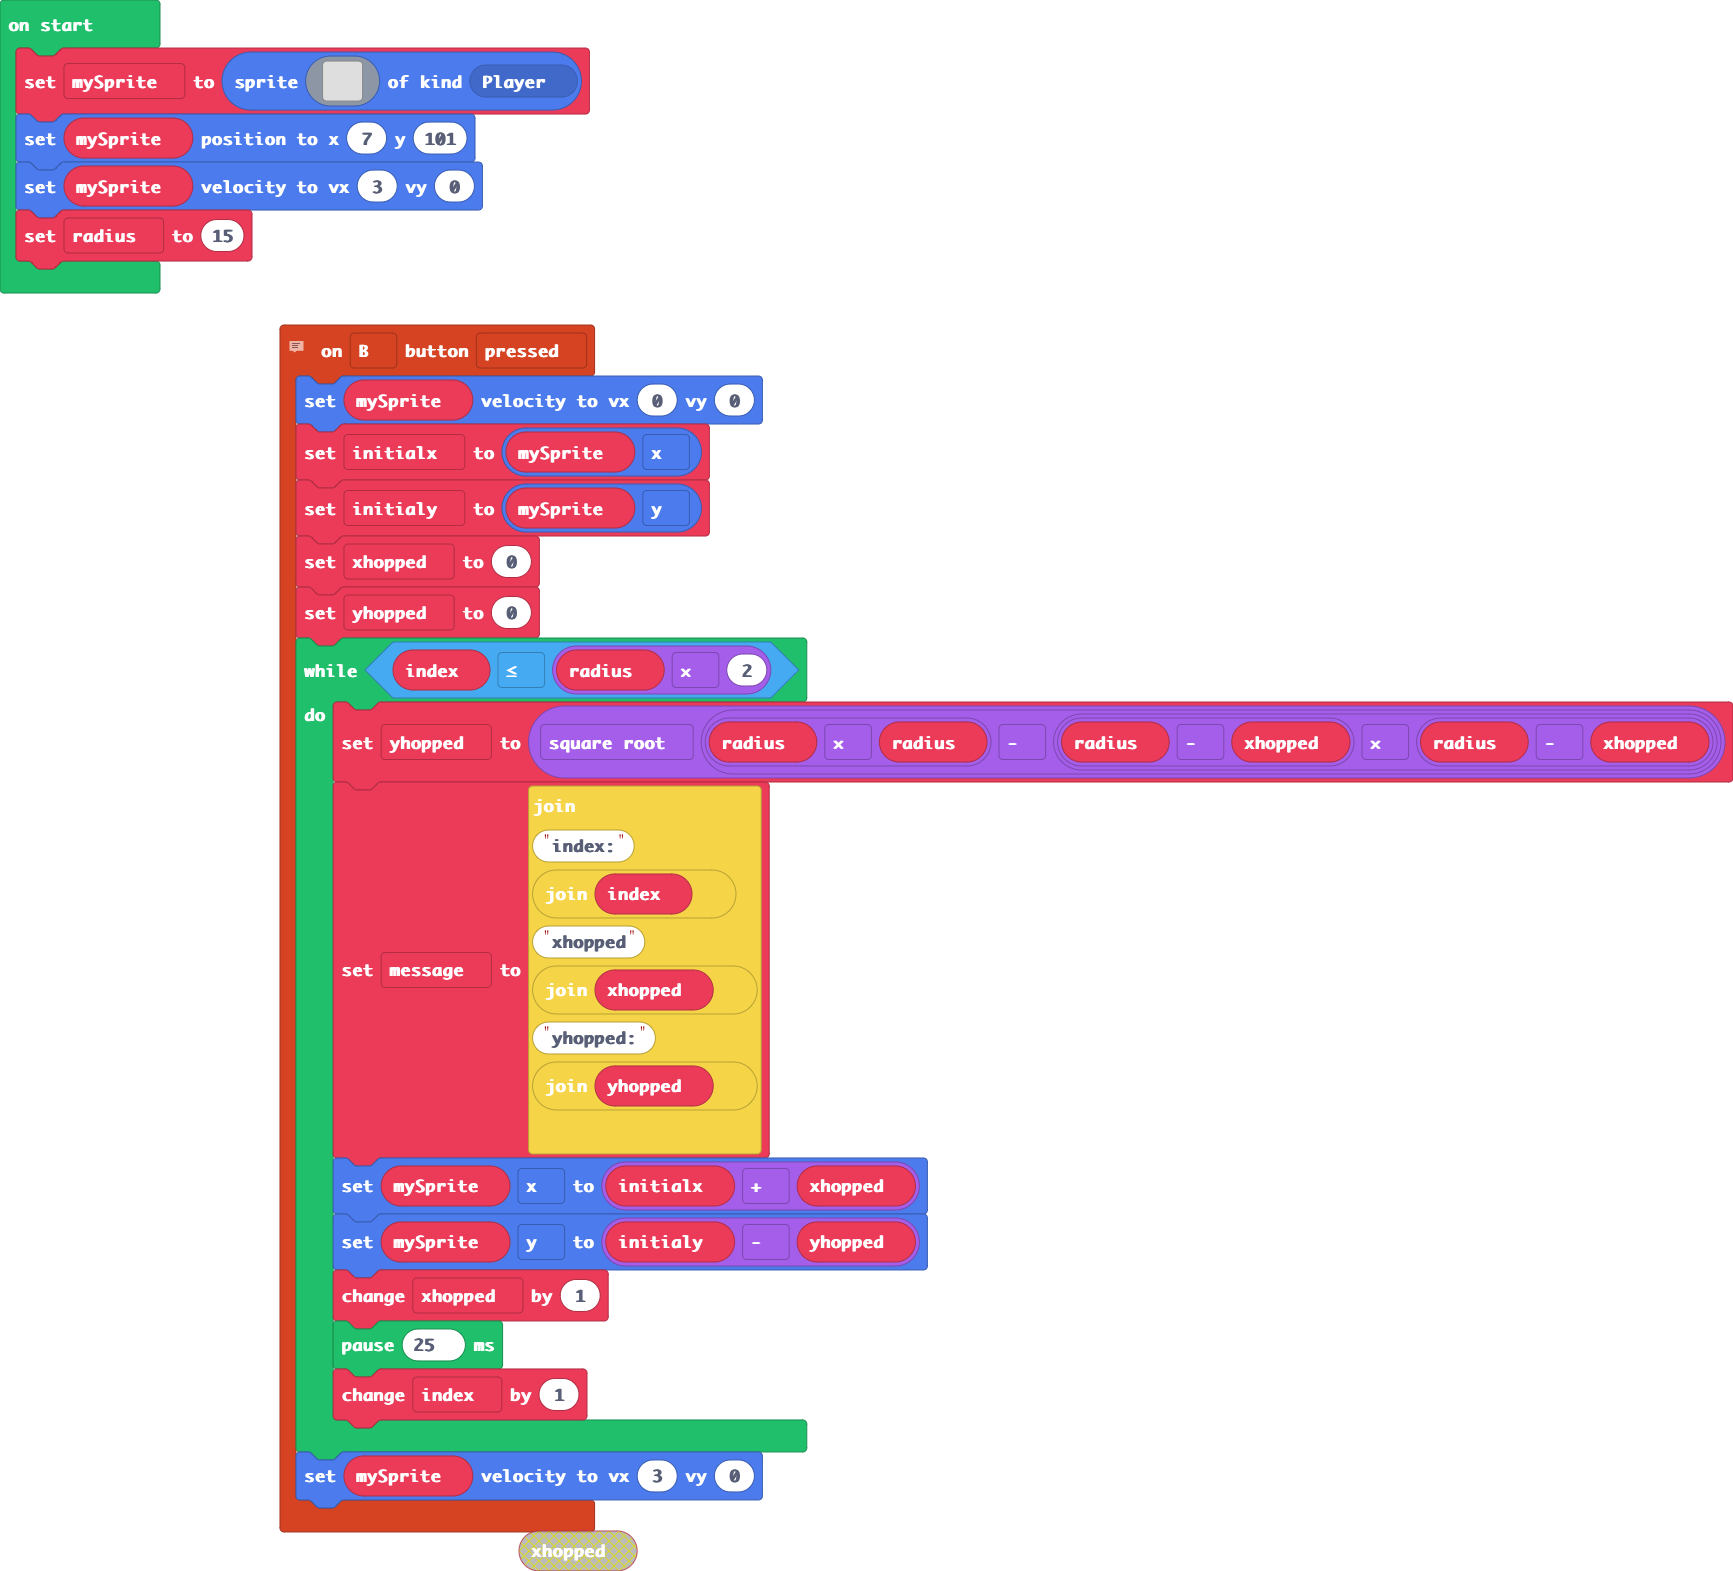
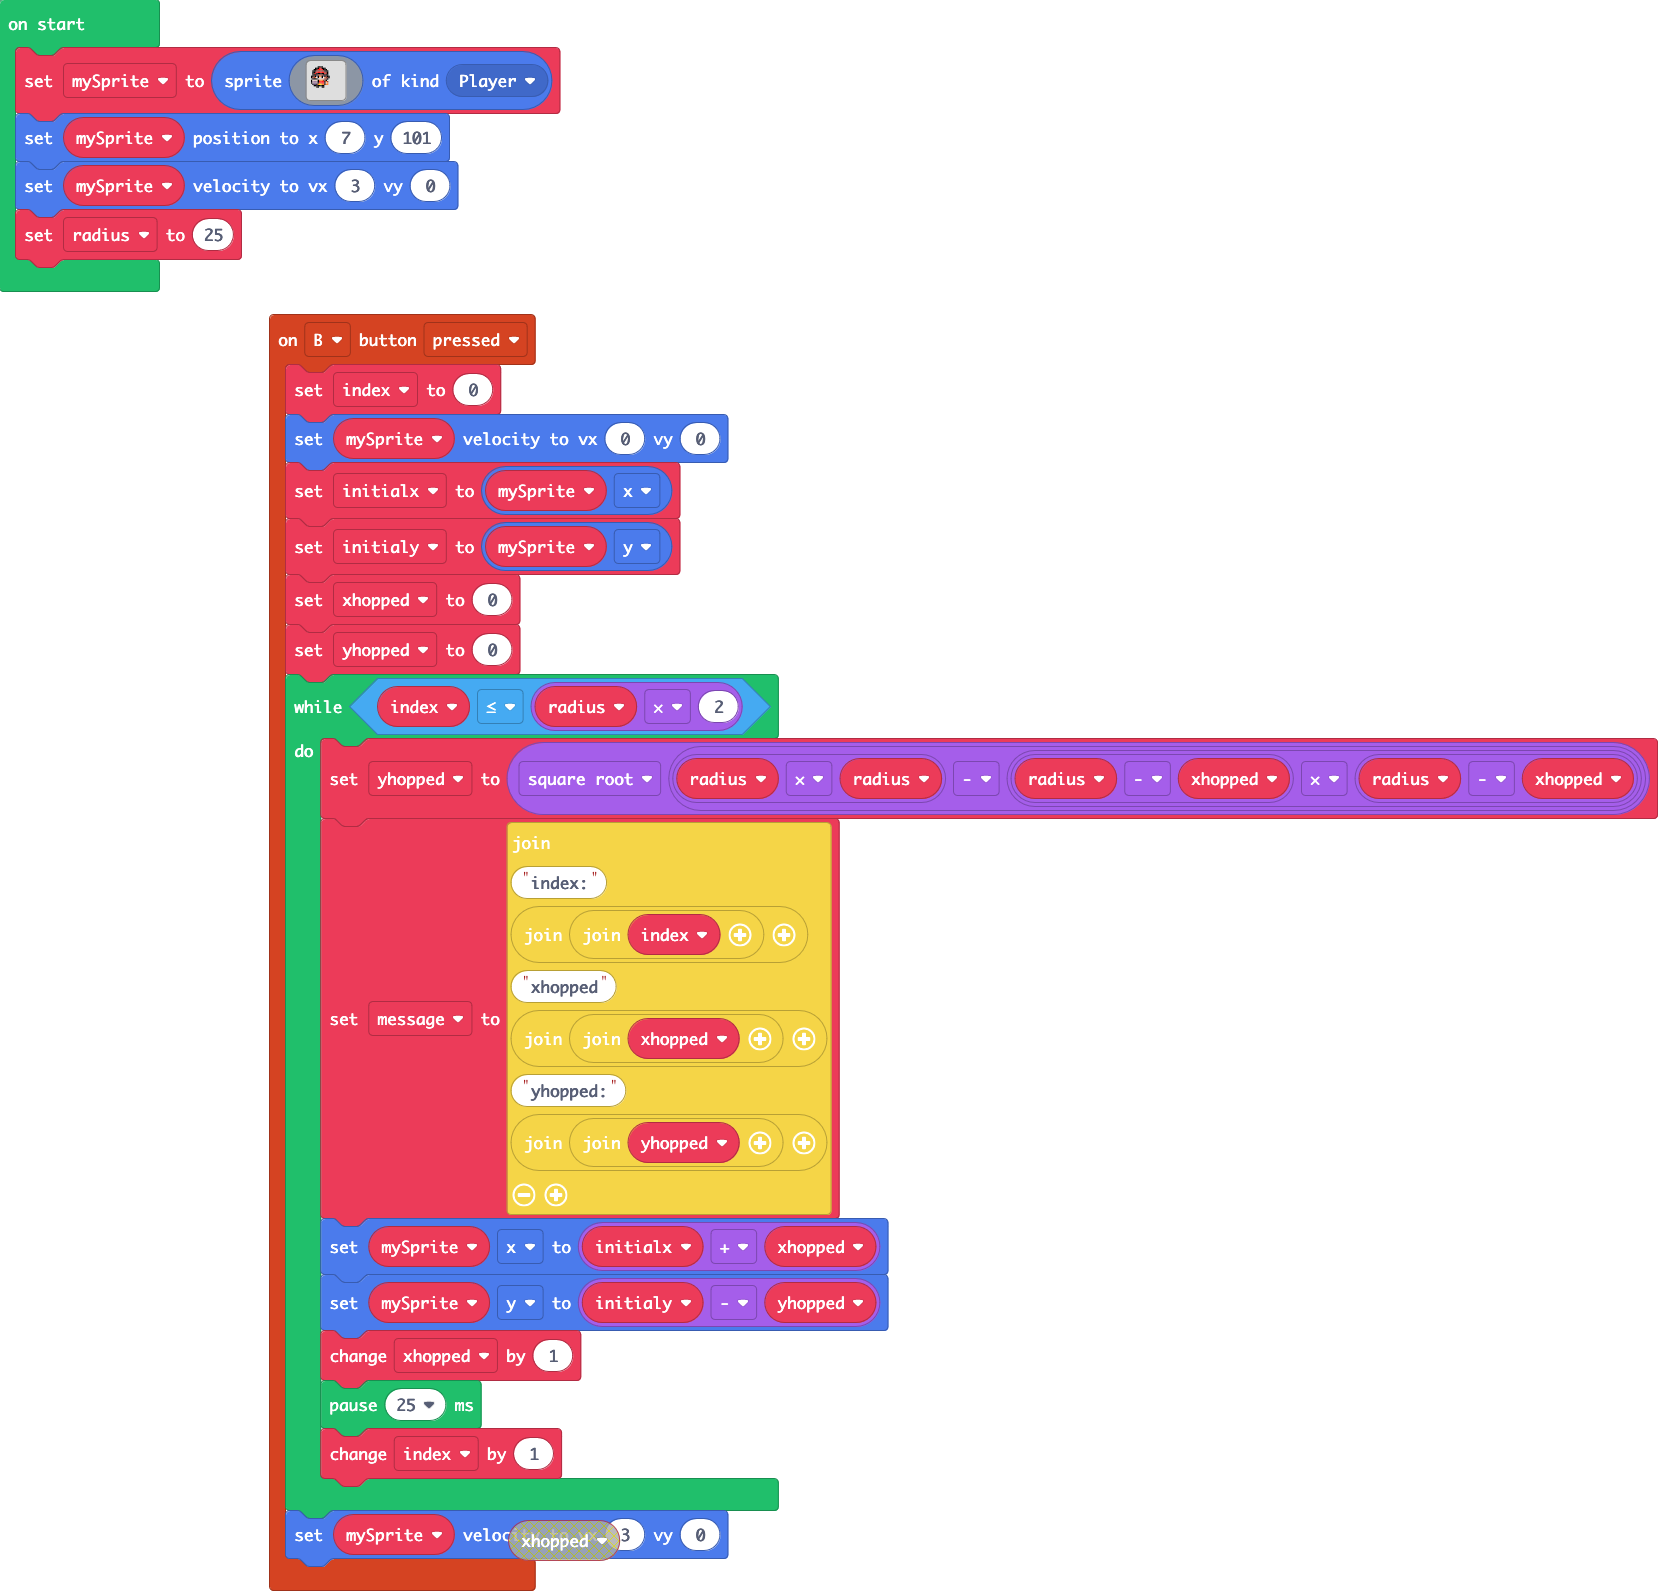
firefox on mac 2

Changed region(s): [[0.1538, 0.1871, 1.0, 1.0], [0.0, 0.0, 0.3384, 0.1871]]

diff --git a/main.ts b/main.ts
@@ -1,5 +1,5 @@
-// gratiuitous comment
 controller.B.onEvent(ControllerButtonEvent.Pressed, function () {
+    index = 0
     mySprite.setVelocity(0, 0)
     initialx = mySprite.x
     initialy = mySprite.y
@@ -17,14 +17,14 @@ controller.B.onEvent(ControllerButtonEvent.Pressed, function () {
     mySprite.setVelocity(3, 0)
 })
 let message = ""
-let index = 0
 let yhopped = 0
 let xhopped = 0
 let initialy = 0
 let initialx = 0
+let index = 0
 let radius = 0
 let mySprite: Sprite = null
 mySprite = sprites.create(assets.image`mysprite`, SpriteKind.Player)
 mySprite.setPosition(7, 101)
 mySprite.setVelocity(3, 0)
-radius = 15
+radius = 25

diff --git a/main.py b/main.py
@@ -1,15 +1,14 @@
-#gratiuitous comment
 def on_b_pressed():
-    global initialx, initialy, xhopped, yhopped, message
+    global index,initialx, initialy, xhopped, yhopped, message, index
+    index = 0
     mySprite.set_velocity(0, 0)
     initialx = mySprite.x
     initialy = mySprite.y
     xhopped = 0
     yhopped = 0
-    index = 0
     while index <= radius * 2:
         yhopped = Math.sqrt(radius * radius - (radius - xhopped) * (radius - xhopped))
-        message = "index:" + str(index) + "xhopped" + str(xhopped) + "yhopped:" + str(yhopped)
+        message = "index:" + ("" + str(index)) + "xhopped" + ("" + str(xhopped)) + "yhopped:" + ("" + str(yhopped))
         mySprite.x = initialx + xhopped
         mySprite.y = initialy - yhopped
         xhopped += 1
@@ -19,6 +18,7 @@ def on_b_pressed():
 controller.B.on_event(ControllerButtonEvent.PRESSED, on_b_pressed)
 
 message = ""
+index = 0
 yhopped = 0
 xhopped = 0
 initialy = 0
@@ -30,4 +30,4 @@ mySprite = sprites.create(assets.image("""
 """), SpriteKind.player)
 mySprite.set_position(7, 101)
 mySprite.set_velocity(3, 0)
-radius = 20
+radius = 15
